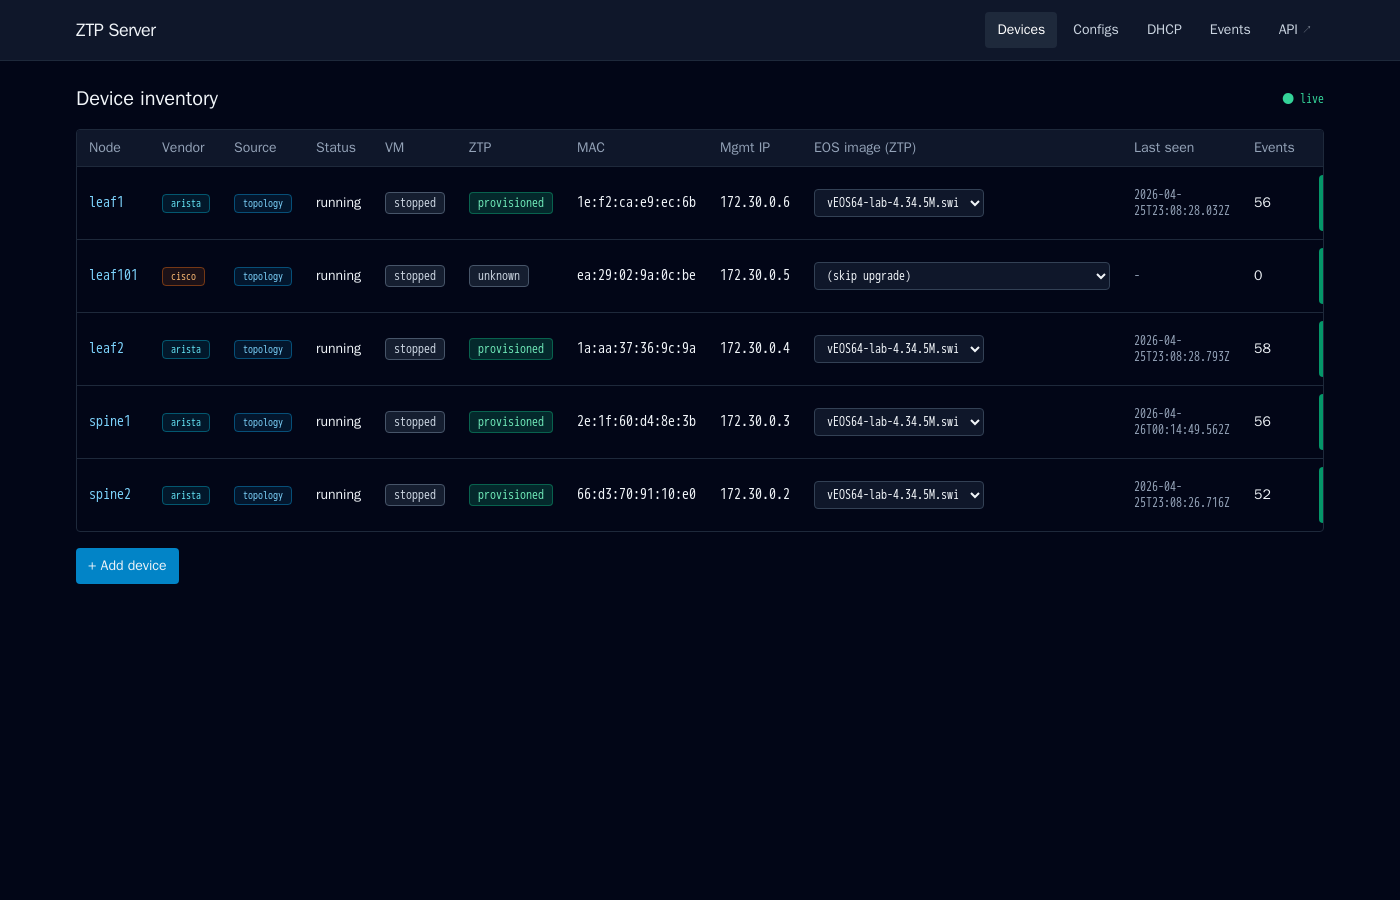
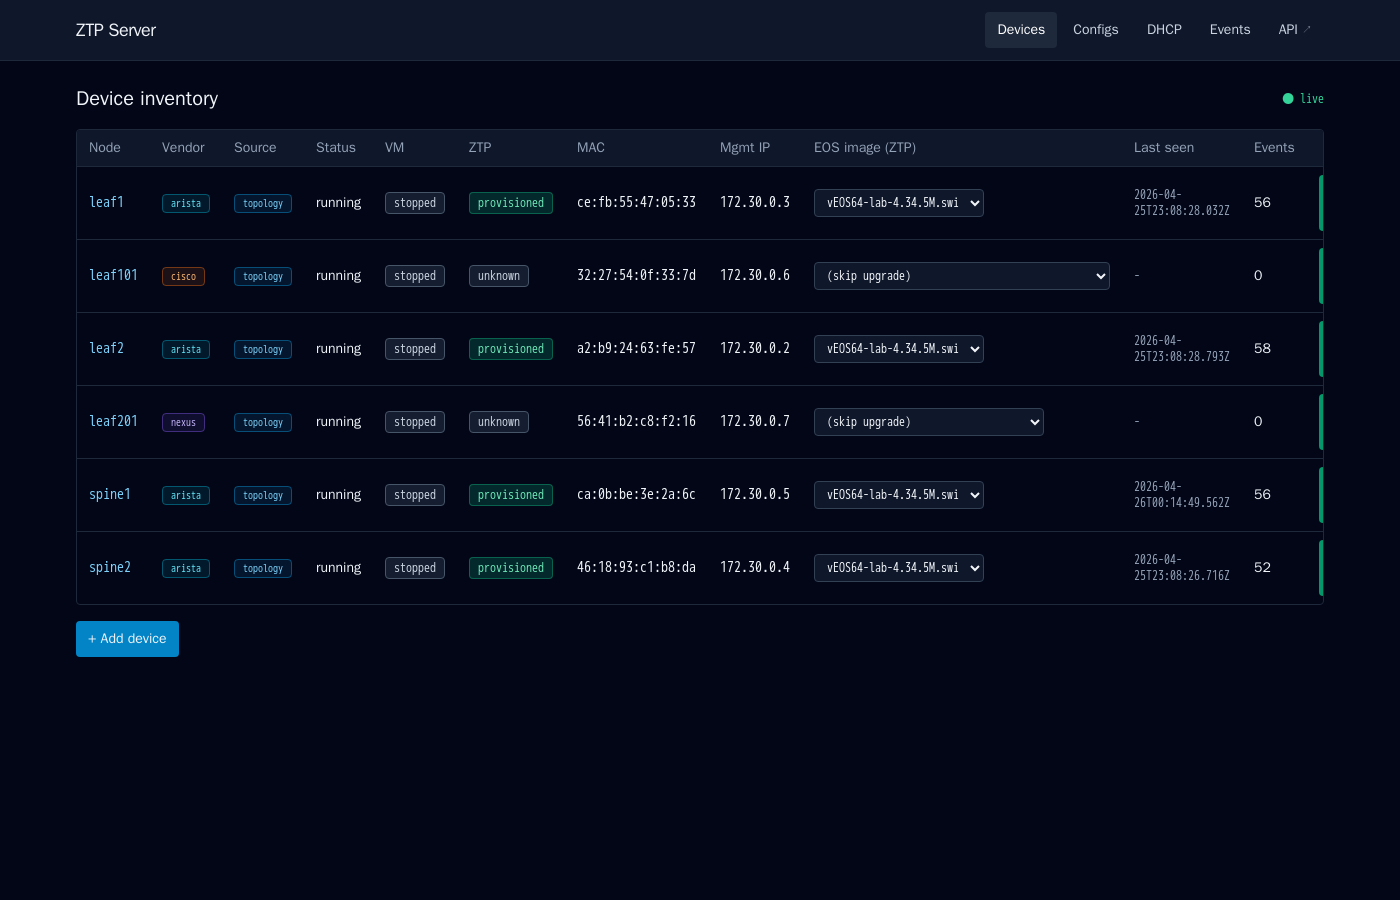
Add Cisco NX-OS support: leaf201 (Nexus 9300v) via POAP
Third vendor in the lab. leaf201 is a Nexus 9300v lite VM running
under the same veos-launcher container; the launcher now has a
"nexus" profile alongside arista and cisco. POAP fetches a Python
script via DHCP option 67 on first boot, identical pattern to the
Cisco IOS-XE flow we already had for leaf101.

veos-launcher
- launch.py: third vendor profile "nexus" — 4 GB RAM (lite variant),
  virtio disk, e1000 NIC, default fallback /nxos.qcow2.

topology.clab.yml
- New leaf201 node: kind:linux + veos-launcher with VENDOR=nexus,
  binds nxos-images/nexus9300v64-lite.10.5.5.M.qcow2 -> /vm-image.qcow2.
- Standalone (no fabric links). 4 GB RAM allocated by the nexus profile.
- ztp-app gets nxos-images/:/nxos-images:ro mount alongside the others.

dnsmasq + ZTP
- dnsmasq.conf: per-host reservation for leaf201's deterministic MAC
  (16:6c:2a:51:fc:2e -> 172.30.0.121) with Option 67 pointing at
  /ztp/leaf201.py.

Per-host artifacts
- ztp-content/ztp/leaf201.py: minimal POAP script. POST event=start,
  cli('copy http://.../configs/leaf201.cfg bootflash:poap_replay.cfg
  vrf management'), cli('copy bootflash:poap_replay.cfg
  startup-config'), POST event=done. Tolerates running off-device.
- ztp-content/configs/leaf201.cfg: NX-OS day-zero — hostname,
  admin/cisco creds, mgmt0 = 172.30.0.121/24 in vrf management,
  default route via mgmt vrf, ssh on vty.

Backend
- docker_ctl: leaf201 -> "nexus" in TOPOLOGY_VENDORS. apply_config()
[…]

diff --git a/ztp-server/app/ui/src/pages/DeviceDetail.tsx b/ztp-server/app/ui/src/pages/DeviceDetail.tsx
@@ -62,17 +62,17 @@ export default function DeviceDetail() {
 
       <div className="flex items-center gap-3 mb-6">
         {(() => {
-          const isCisco = device?.vendor === "cisco";
+          const isArista = (device?.vendor ?? "arista") === "arista";
           return (
             <button
               onClick={apply}
-              disabled={busy || !device?.container || isCisco}
+              disabled={busy || !device?.container || !isArista}
               className="px-3 py-2 rounded bg-sky-600 hover:bg-sky-500 disabled:opacity-50 text-sm"
-              title={isCisco
-                ? "Apply config (live) is Arista-only. Stop+Start the device to re-run ZTP and pick up config changes."
+              title={!isArista
+                ? "Apply config (live) is Arista-only. Stop+Start the device to re-run ZTP/POAP and pick up config changes."
                 : "Push the served per-host config into running + startup via FastCli configure replace. No reboot."}
             >
-              {busy ? "Applying…" : isCisco ? "Apply config (live) — Arista only" : "Apply config (live)"}
+              {busy ? "Applying…" : !isArista ? "Apply config (live) — Arista only" : "Apply config (live)"}
             </button>
           );
         })()}

diff --git a/ztp-server/app/ui/src/api.ts b/ztp-server/app/ui/src/api.ts
@@ -5,7 +5,7 @@ export type Device = {
   mac: string | null;
   ip: string | null;
   source?: "topology" | "managed" | "absent";
-  vendor?: "arista" | "cisco";
+  vendor?: "arista" | "cisco" | "nexus";
   eos_image?: string | null;
   vm_status?: "running" | "stopped" | "unknown";
   first_seen?: string;
@@ -18,7 +18,7 @@ export type EosImage = {
   filename: string;
   size: number;
   mtime: number;
-  vendor?: "arista" | "cisco";
+  vendor?: "arista" | "cisco" | "nexus";
 };
 
 export type ManagedDevice = {

diff --git a/ztp-server/app/ui/src/pages/Devices.tsx b/ztp-server/app/ui/src/pages/Devices.tsx
@@ -144,6 +144,8 @@ function DeviceRow({ d, images, onView, onChange }: {
         <span className={`px-2 py-0.5 text-[10px] rounded mono border ${
           d.vendor === "cisco"
             ? "bg-orange-500/10 text-orange-300 border-orange-500/40"
+          : d.vendor === "nexus"
+            ? "bg-violet-500/10 text-violet-300 border-violet-500/40"
             : "bg-cyan-500/10 text-cyan-300 border-cyan-500/40"
         }`}>{d.vendor ?? "arista"}</span>
       </td>

diff --git a/ztp-content/ztp/leaf201.py b/ztp-content/ztp/leaf201.py
@@ -1,0 +1,68 @@
+#!/usr/bin/env python
+"""
+Cisco NX-OS Power-On Auto Provisioning (POAP) script for leaf201
+(Nexus 9300v lite).
+
+POAP runs on first boot when there's no startup-config in NVRAM. The
+NX-OS bootloader reads DHCP option 67 from the dnsmasq response, fetches
+this script from the ZTP app, and runs it under NX-OS's Python (the cli
+module is pre-imported).
+
+Flow: POST event=start, copy the per-host config from the ZTP server
+into bootflash, copy that into startup-config, POST event=done. NX-OS
+reboots automatically once POAP exits cleanly with a good
+startup-config in place.
+
+Note: NX-OS uses a `vrf management` for mgmt-interface traffic, so the
+copy commands must specify it.
+"""
+import os
+import sys
+
+try:
+    # Available inside NX-OS Python
+    from cli import cli  # type: ignore
+except ImportError:
+    cli = None  # for off-device lint/test
+
+try:
+    from urllib.request import urlopen, Request
+except ImportError:
+    from urllib2 import urlopen, Request  # type: ignore
+
+HOST = "leaf201"
+SRV  = "http://172.30.0.20"
+
+
+def http_post(url):
+    try:
+        urlopen(Request(url, data=b""), timeout=10).read()
+    except Exception:
+        pass  # logging is best-effort
+
+
+def main():
+    print("POAP: starting for {}".format(HOST))
+    http_post("{}/log?host={}&event=start".format(SRV, HOST))
+
+    if cli is None:
+        print("POAP: cli module not present (off-device dry-run), skipping apply")
+        return
+
+    cfg_url = "{}/configs/{}.cfg".format(SRV, HOST)
+    local_path = "bootflash:poap_replay.cfg"
+    print("POAP: copying {} -> {}".format(cfg_url, local_path))
+    cli("copy {} {} vrf management".format(cfg_url, local_path))
+    print("POAP: copying {} -> startup-config".format(local_path))
+    cli("copy {} startup-config".format(local_path))
+
+    http_post("{}/log?host={}&event=done".format(SRV, HOST))
+    print("POAP: done; NX-OS will reboot into the new startup-config")
+
+
+if __name__ == "__main__":
+    try:
+        main()
+    except Exception as e:
+        print("POAP: fatal error: {}".format(e))
+        sys.exit(1)

diff --git a/ztp-server/app/docker_ctl.py b/ztp-server/app/docker_ctl.py
@@ -11,11 +11,12 @@ LAB_NAME = "ztp-universal-demo"
 # (rather than parsed from topology.clab.yml at runtime) because the file
 # isn't bind-mounted into the app container.
 TOPOLOGY_VENDORS = {
-    "spine1": "arista",
-    "spine2": "arista",
-    "leaf1":  "arista",
-    "leaf2":  "arista",
-    "leaf101": "cisco",
+    "spine1":  "arista",
+    "spine2":  "arista",
+    "leaf1":   "arista",
+    "leaf2":   "arista",
+    "leaf101": "cisco",   # CSR1000v / IOS-XE
+    "leaf201": "nexus",   # Nexus 9300v / NX-OS
 }
 # Short names of the *topology* nodes (any vendor). Used to enumerate
 # devices since the wrapper containers are kind:linux and don't
@@ -120,13 +121,15 @@ def apply_config(node_name: str, server_url: str = "http://172.30.0.20") -> dict
     eAPI (HTTP JSON-RPC) over the device's post-ZTP management IP. No
     VM reboot, no container restart.
 
-    Arista-only: Cisco IOS-XE has no eAPI. To regenerate a Cisco device's
-    config you currently need to Stop+Start it (which re-runs ZTP).
+    Arista-only: Cisco IOS-XE / NX-OS have no eAPI. To regenerate a
+    Cisco device's config you currently need to Stop+Start it (which
+    re-runs ZTP / POAP).
     """
-    if TOPOLOGY_VENDORS.get(node_name, "arista") != "arista":
+    vendor = TOPOLOGY_VENDORS.get(node_name, "arista")
+    if vendor != "arista":
         raise ValueError(
             f"apply-config (live) is Arista-only; {node_name} is "
-            f"{TOPOLOGY_VENDORS.get(node_name)}. Stop+Start to re-run ZTP."
+            f"{vendor}. Stop+Start to re-run ZTP/POAP."
         )
     # Resolve mgmt IP: topology nodes have static post-ZTP IPs; managed
     # devices come from the SQLite table (added via the UI).

diff --git a/ztp-server/app/main.py b/ztp-server/app/main.py
@@ -27,8 +27,9 @@ import leases
 
 CONTENT_ROOT = Path(os.environ.get("ZTP_CONTENT_ROOT", "/ztp-content"))
 STATIC_ROOT = Path(os.environ.get("STATIC_ROOT", "/app/static"))
-EOS_IMAGES_ROOT = Path(os.environ.get("EOS_IMAGES_ROOT", "/eos_images"))
+EOS_IMAGES_ROOT   = Path(os.environ.get("EOS_IMAGES_ROOT",   "/eos_images"))
 IOSXE_IMAGES_ROOT = Path(os.environ.get("IOSXE_IMAGES_ROOT", "/iosxe-images"))
+NXOS_IMAGES_ROOT  = Path(os.environ.get("NXOS_IMAGES_ROOT",  "/nxos-images"))
 HOST_RE = re.compile(r"^[a-zA-Z0-9_-]+$")
 # Either an Arista .swi or a Cisco .qcow2 / .bin / .iso image filename.
 EOS_IMAGE_RE = re.compile(r"^[A-Za-z0-9._-]+\.(swi|qcow2|bin|iso|tar)$")
@@ -36,6 +37,7 @@ EOS_IMAGE_RE = re.compile(r"^[A-Za-z0-9._-]+\.(swi|qcow2|bin|iso|tar)$")
 _IMAGE_DIR_BY_VENDOR = {
     "arista": EOS_IMAGES_ROOT,
     "cisco":  IOSXE_IMAGES_ROOT,
+    "nexus":  NXOS_IMAGES_ROOT,
 }
 # Strip ANSI escape sequences (CSI ... final byte) from terminal output so the
 # log stream renders cleanly as plain text in the browser.

diff --git a/veos-launcher/launch.py b/veos-launcher/launch.py
@@ -48,6 +48,15 @@ _VENDOR_PROFILES = {
         "nic": "e1000",
         "default_img_fallback": "/csr.qcow2",
     },
+    "nexus": {
+        # Nexus 9300v lite: 4 GB is enough; full needs 8 GB. virtio disk
+        # works; e1000 NIC keeps interface ordering predictable.
+        "ram": 4096,
+        "smp": 2,
+        "disk_if": "virtio",
+        "nic": "e1000",
+        "default_img_fallback": "/nxos.qcow2",
+    },
 }
 
 # OUI 52:54:00 = QEMU. Last 3 bytes derive from NODE_NAME so a given node
